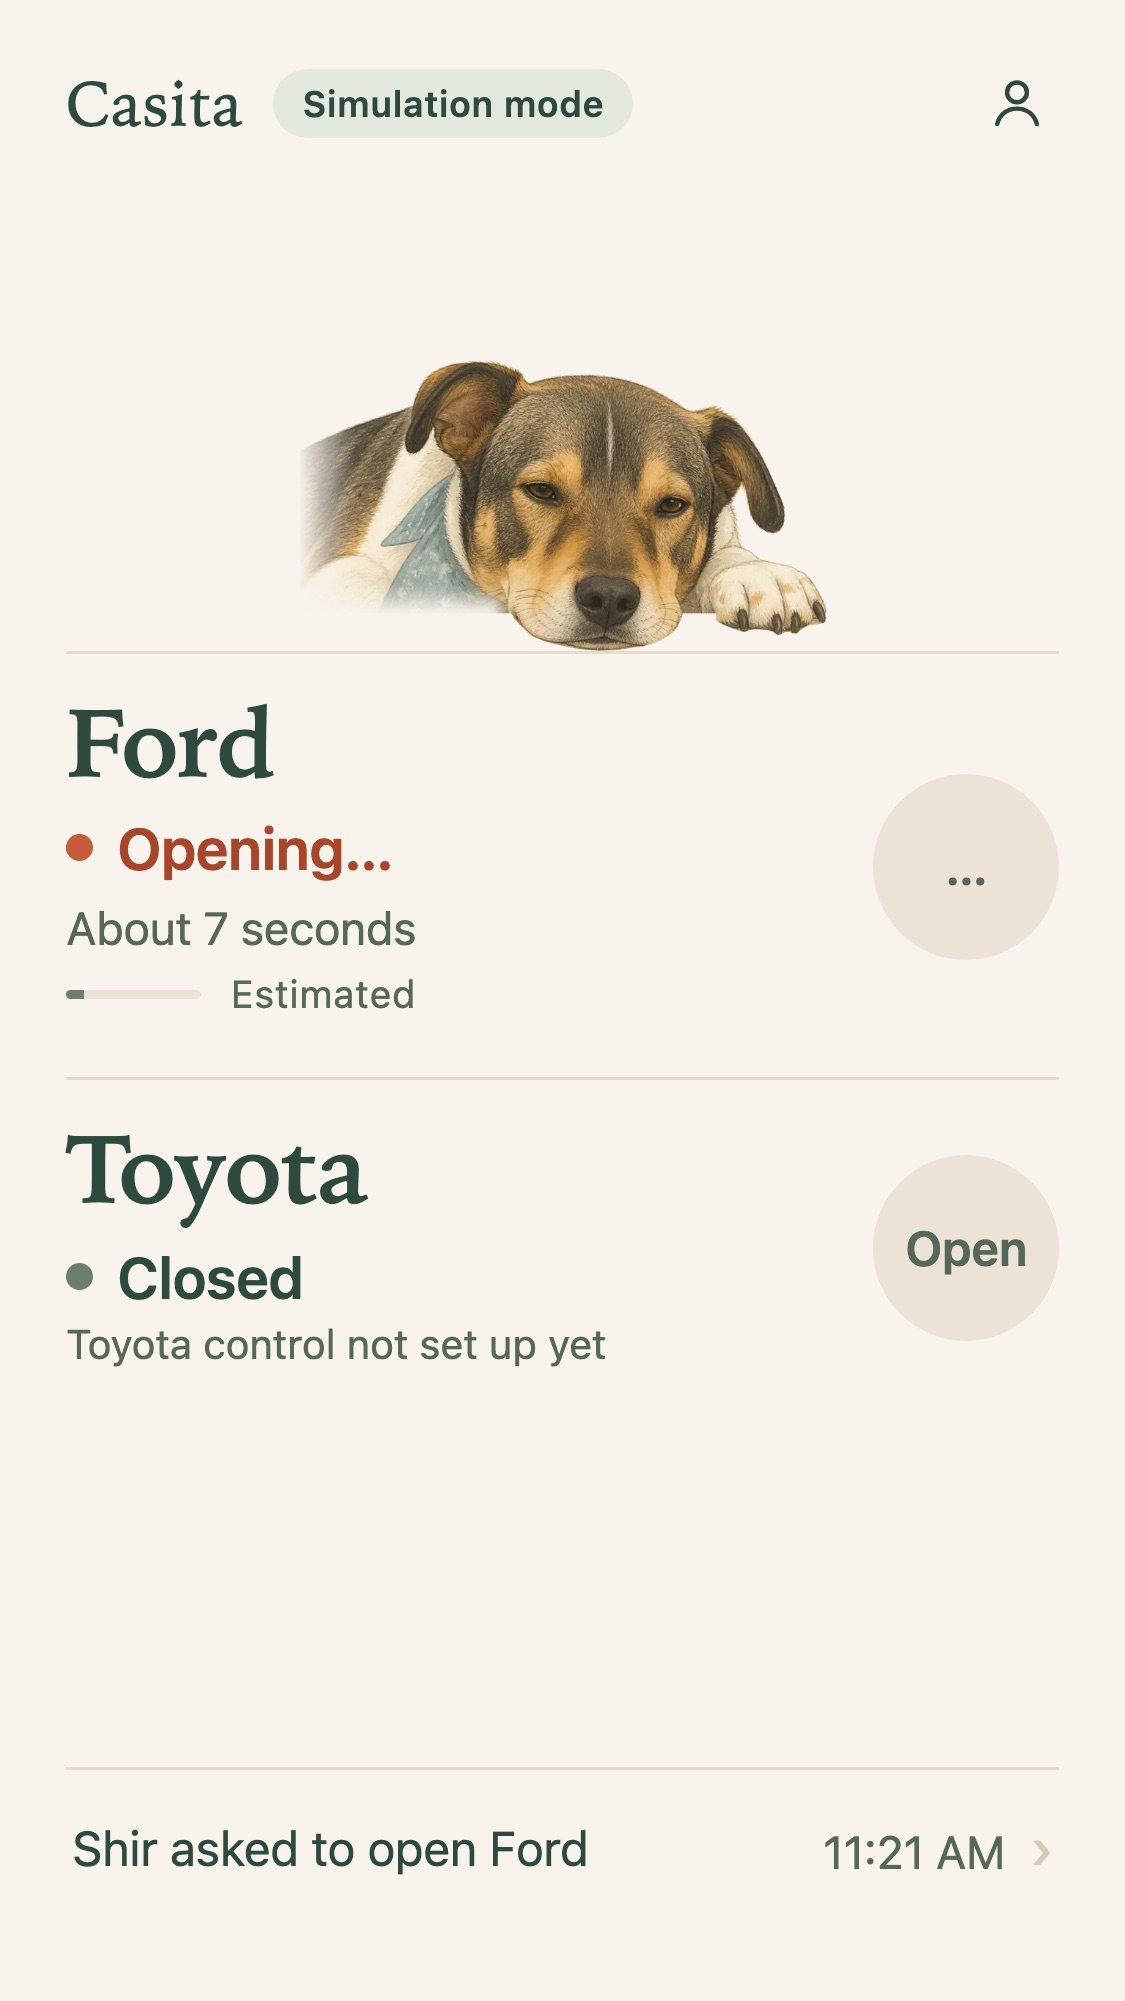
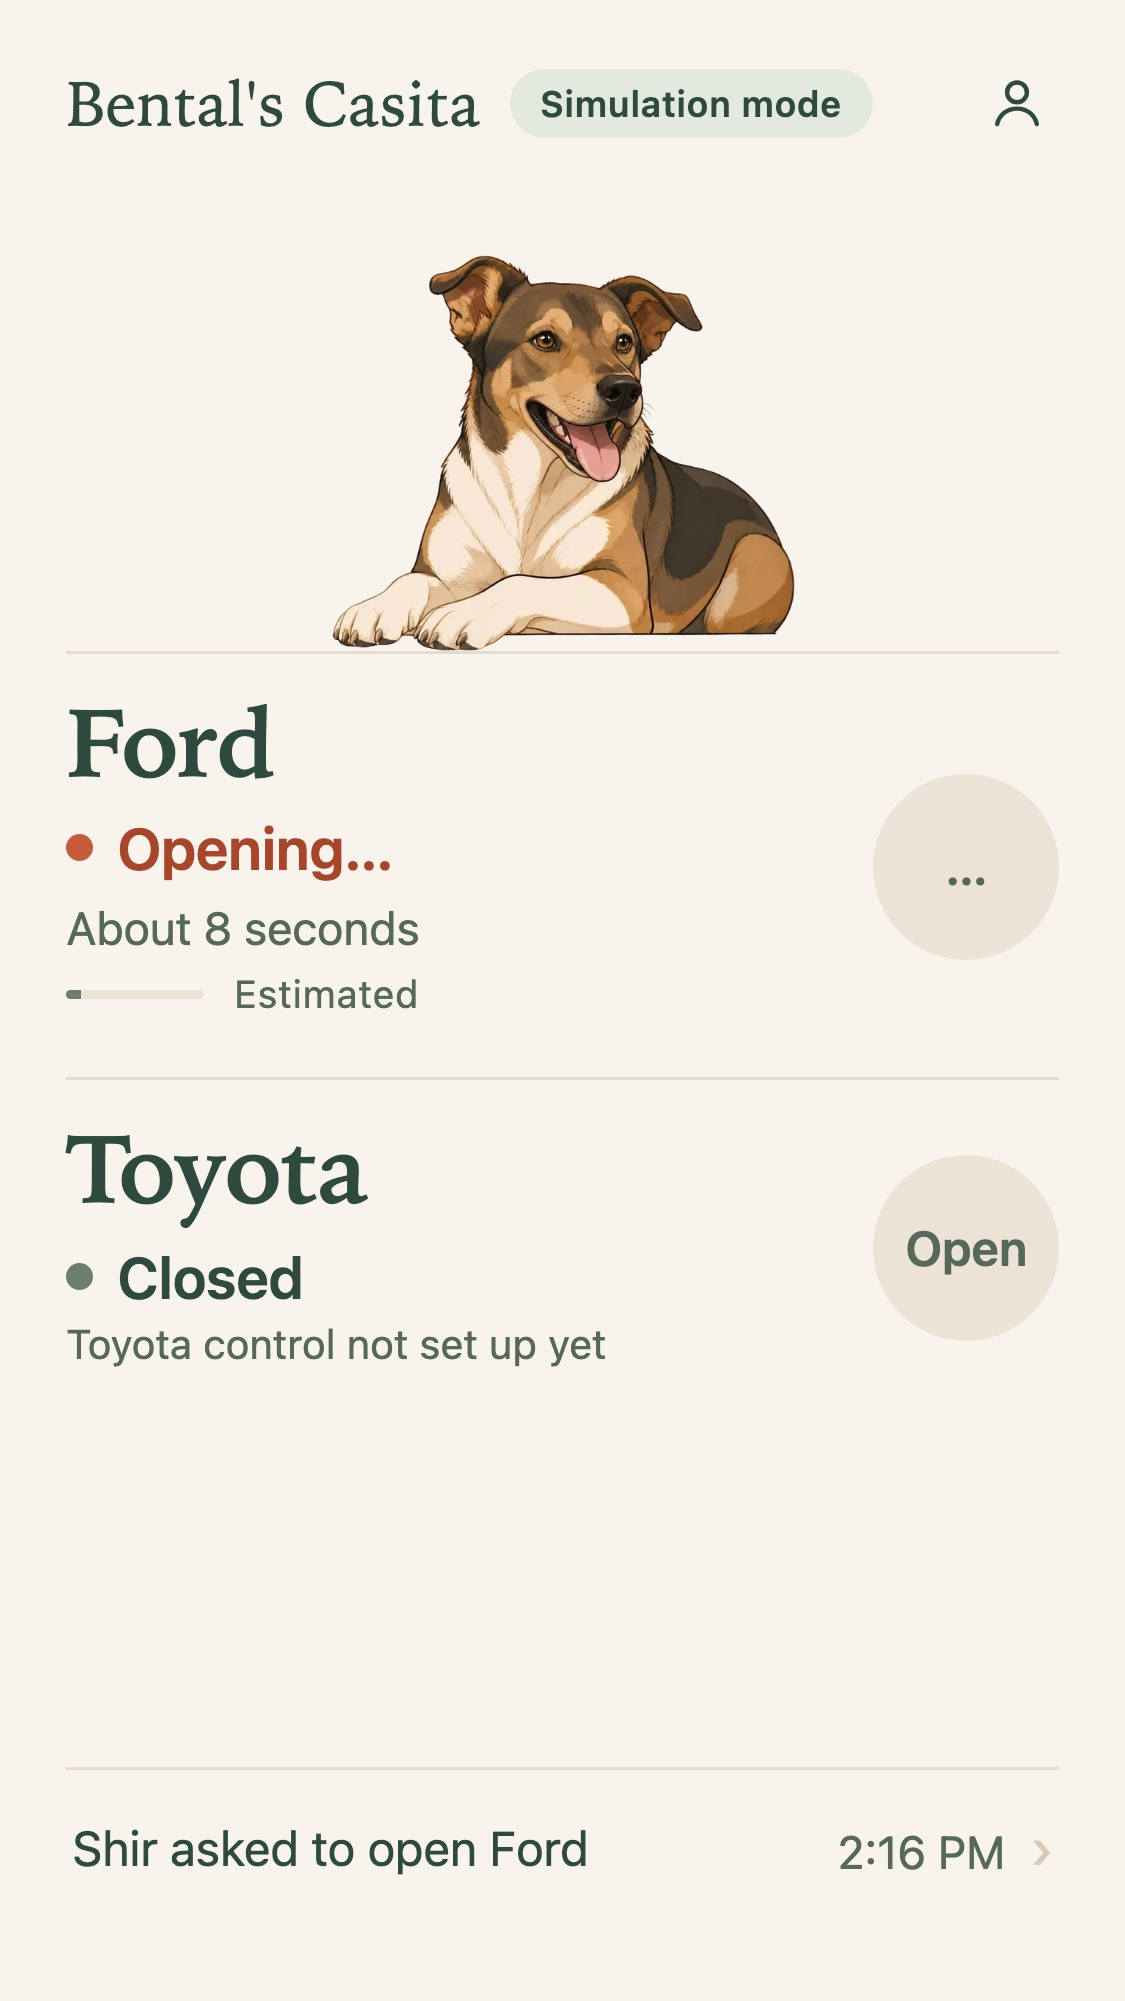
Casita home: the approved idle and excited Watson
casita.brand.illustration and illustration-excited now point at the approved
two-state character from the art commit (watson-idle.webp and
watson-excited.webp, 720x540, transparent, registered for the cross-fade).
Watson is idle while both doors have settled and excited while a door is
opening or closing, in the same box; nothing moves. watson-home.webp stays in
static/brand/ but is no longer used.

Checked on the simulated doors at 393x852 and 375x667: both images in the
same box, the hairline under them, Ford's position unchanged and no
scrolling. docs/APP.md and docs/screens updated.

diff --git a/docs/APP.md b/docs/APP.md
@@ -102,12 +102,12 @@ with equal weight.
   Ford's safety rules), reviewed on their own; once the server reports Toyota controllable, its
   control works with no page change, and on a real door only when the server reports it live.
 - **Watson** sits under the header, his chin on the line above Ford: the approved illustration
-  (`casita.brand.illustration`, `static/brand/watson-home.webp`, 4:3, transparent), about 60% of the
+  (`casita.brand.illustration`, `static/brand/watson-idle.webp`, 4:3, transparent), about 60% of the
   screen wide and at most 236 pt (176 on an SE). It is fitted, never cropped. A quarter of the spare
   height goes above him and the rest below the doors, so the group sits high. Without the
   illustration configured, the page shows none and no placeholder.
 - **Watson gets excited** while either door is opening or closing, as the server reports it: an excited
-  version of the same character (`casita.brand.illustration-excited`, same canvas, size and
+  version of the same character (`casita.brand.illustration-excited`, `static/brand/watson-excited.webp`, same canvas, size and
   alignment) cross-fades over the idle one in about 300 ms, instantly with *Reduce Motion*, and back
   when both doors have settled. It never comes from a tap, a pending request or a guess, and his
   expression is decoration, never evidence of what a door is doing. Without the excited art

diff --git a/docs/screens/README.md b/docs/screens/README.md
@@ -13,7 +13,7 @@ on 2026-10-19. Standard: 393 × 852 (iPhone 15/16). Small: 375 × 667 (iPhone SE
 | Account sheet | `standard-6-account.jpg` | `small-6-account.jpg` |
 | Face ID setup, with the approved app icon | `standard-7-face-id-setup.jpg` | |
 
-Watson is the approved illustration (`static/brand/watson-home.webp`), only scaled. Toyota's control
+Watson is the approved character (`static/brand/watson-idle.webp`; `watson-excited.webp` while a door moves), only scaled. The closed and opening shots were retaken on 2026-10-19 with this art. Toyota's control
 is disabled ("Toyota control not set up yet") because the server doesn't command Toyota yet.
 
 The sign-in page shows the same icon once `/icons/*.png` is public (PR #8). On this branch alone it
